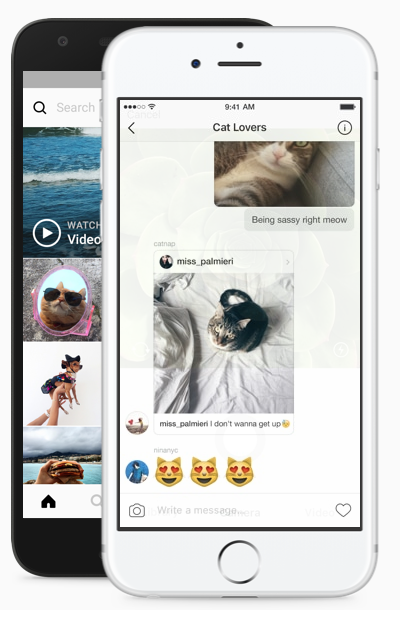
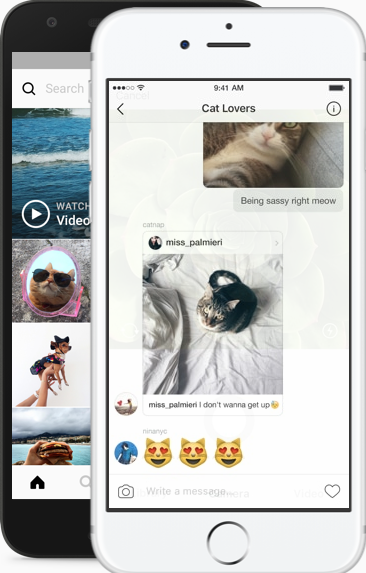
pequena alteração em cores

diff --git a/Instagram/style.css b/Instagram/style.css
@@ -10,7 +10,7 @@
 body {
     width: 100%;
     min-height: 100vh;
-    background-color: rgb(243, 243 , 243);
+    background-color: #f7f7f7;
     margin: 0;
     padding: 0;
     display: flex;
@@ -44,6 +44,7 @@ body {
     flex-direction: column;
     width: 50%;
     min-height: 34rem;
+    
 }
 
 .group {
@@ -51,7 +52,7 @@ body {
     justify-content: space-between;
     align-items: center;
     flex-direction: column;
-    background-color: white;
+    background-color: #dadada;
     width: 100%;
     padding: 1.3rem 0;
     border: 1px solid lightgray;
@@ -62,7 +63,7 @@ body {
 }
 
 .instagram-logo {
-    height: 3rem;
+    height: 4rem;
 }
 
 .profile-photo {
@@ -91,7 +92,7 @@ body {
 }
 
 .not-account {
-    color: rgb(160, 160 , 160);
+    color: rgb(87, 87, 87);
 
 }
 

diff --git a/Instagram/index.html b/Instagram/index.html
@@ -21,7 +21,7 @@
             <a href="#" class="instagram-logout">Remover Conta</a>
         </div>
         <div class="group">
-            <p class="not-account">Não é Marel0w?</p>
+            <p class="not-account">Não é Marcel0w?</p>
             <p class="nottaccount">
                 <span class="link-blue">Alternar contas</span>
                 ou 
